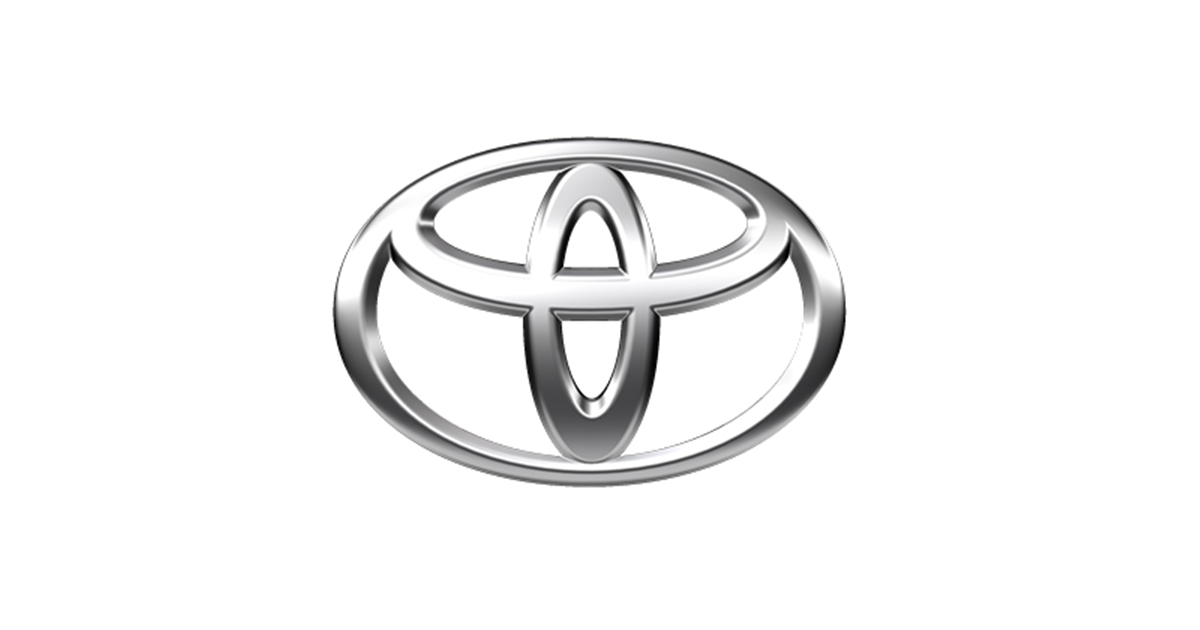
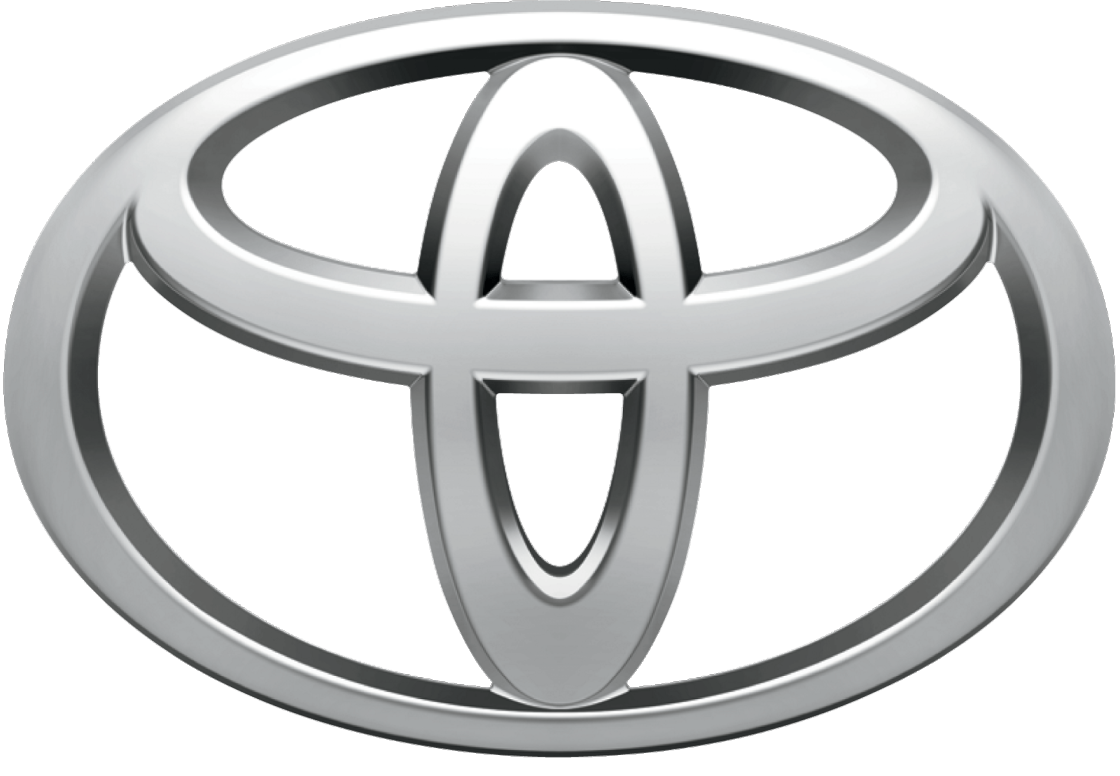
Resize images for better UX

diff --git a/assets/css/style.css b/assets/css/style.css
@@ -170,16 +170,16 @@ button:hover {
 }
 
 .card-easy .front-view img{
-    width: 150px;
+    width: 250px;
     opacity: 0.2;
 }
 
 .card .back-view img{
-    max-width: 150px;
+    max-width: 180px;
 }
 
 .card-easy .back-view img{
-    max-width: 150px;
+    max-width: 350px;
 }
 
 .card .back-view{
